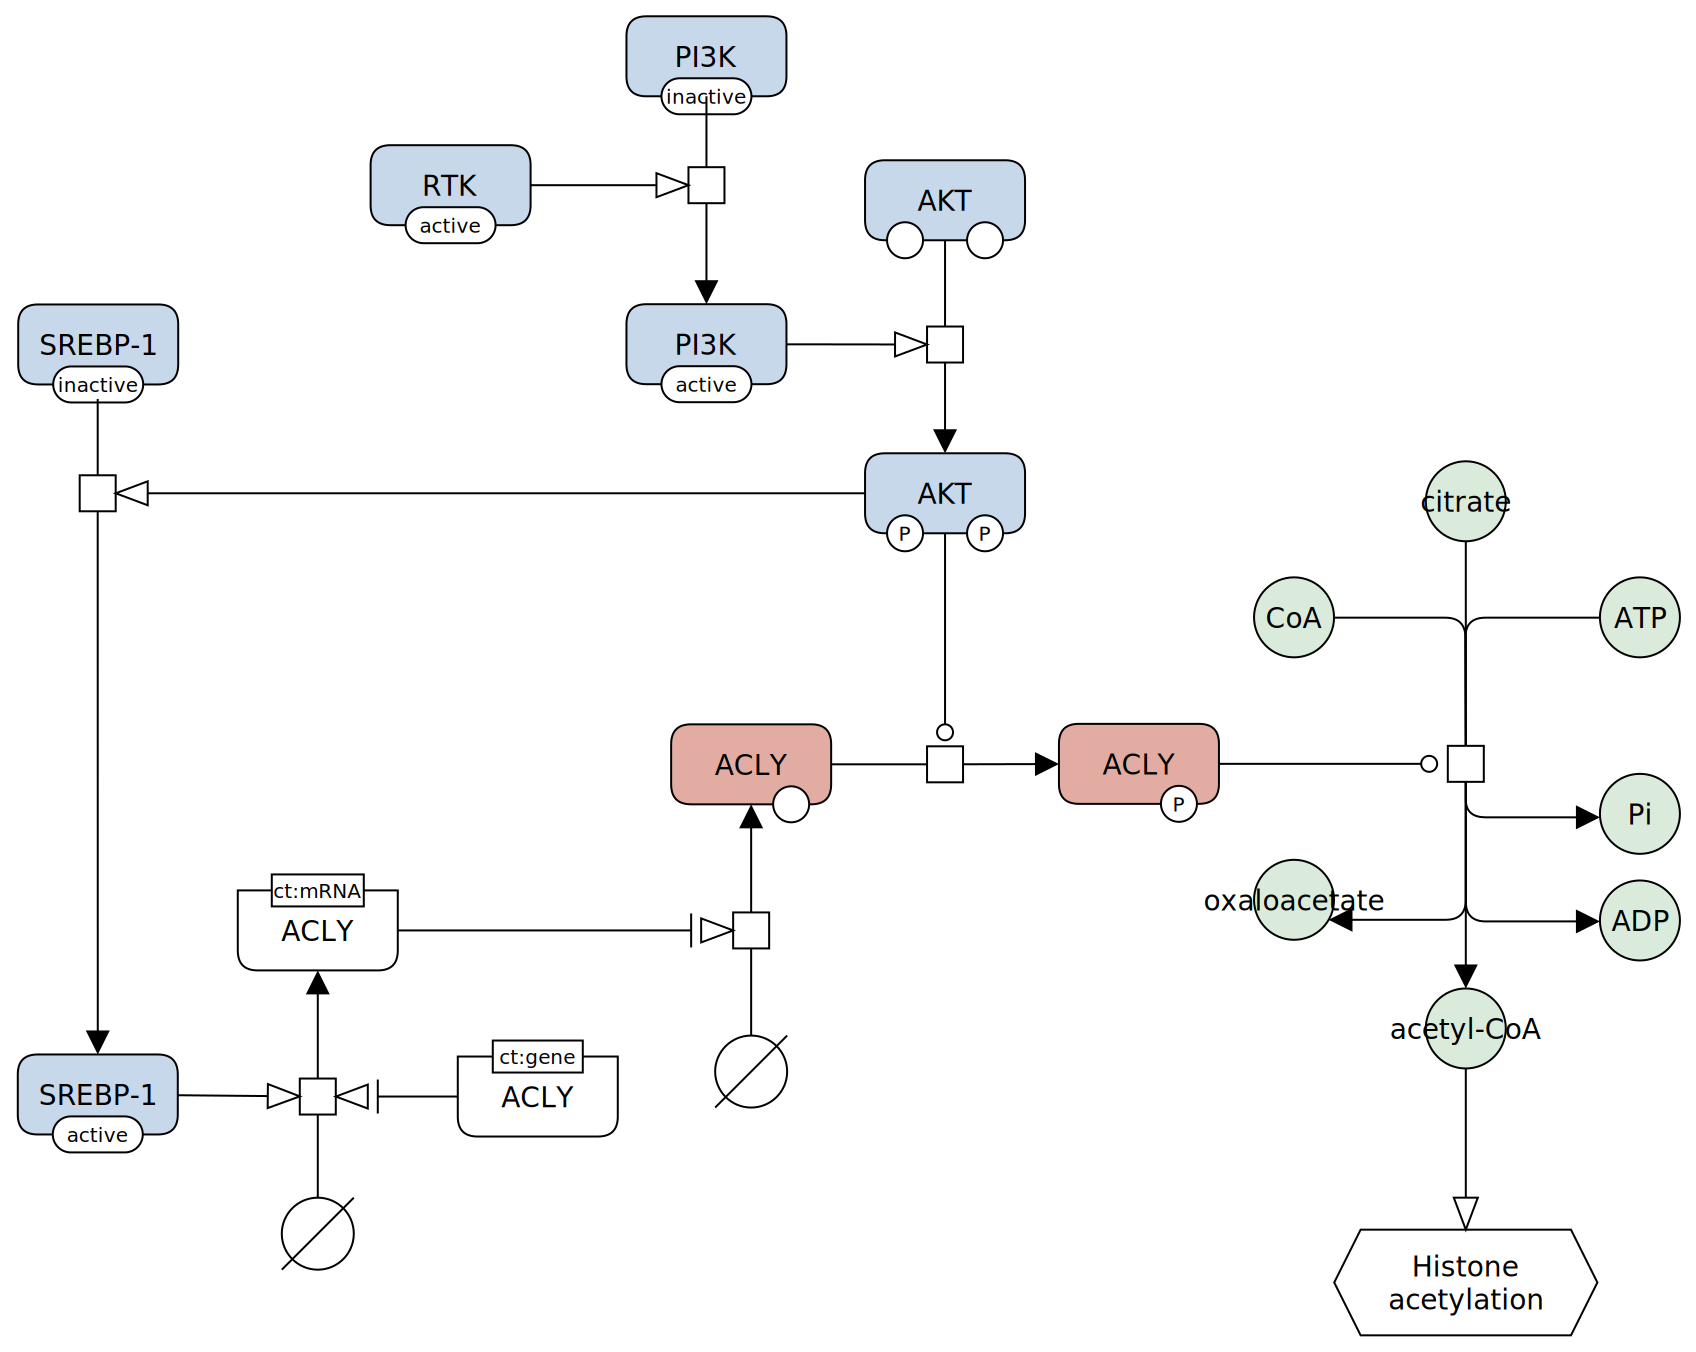
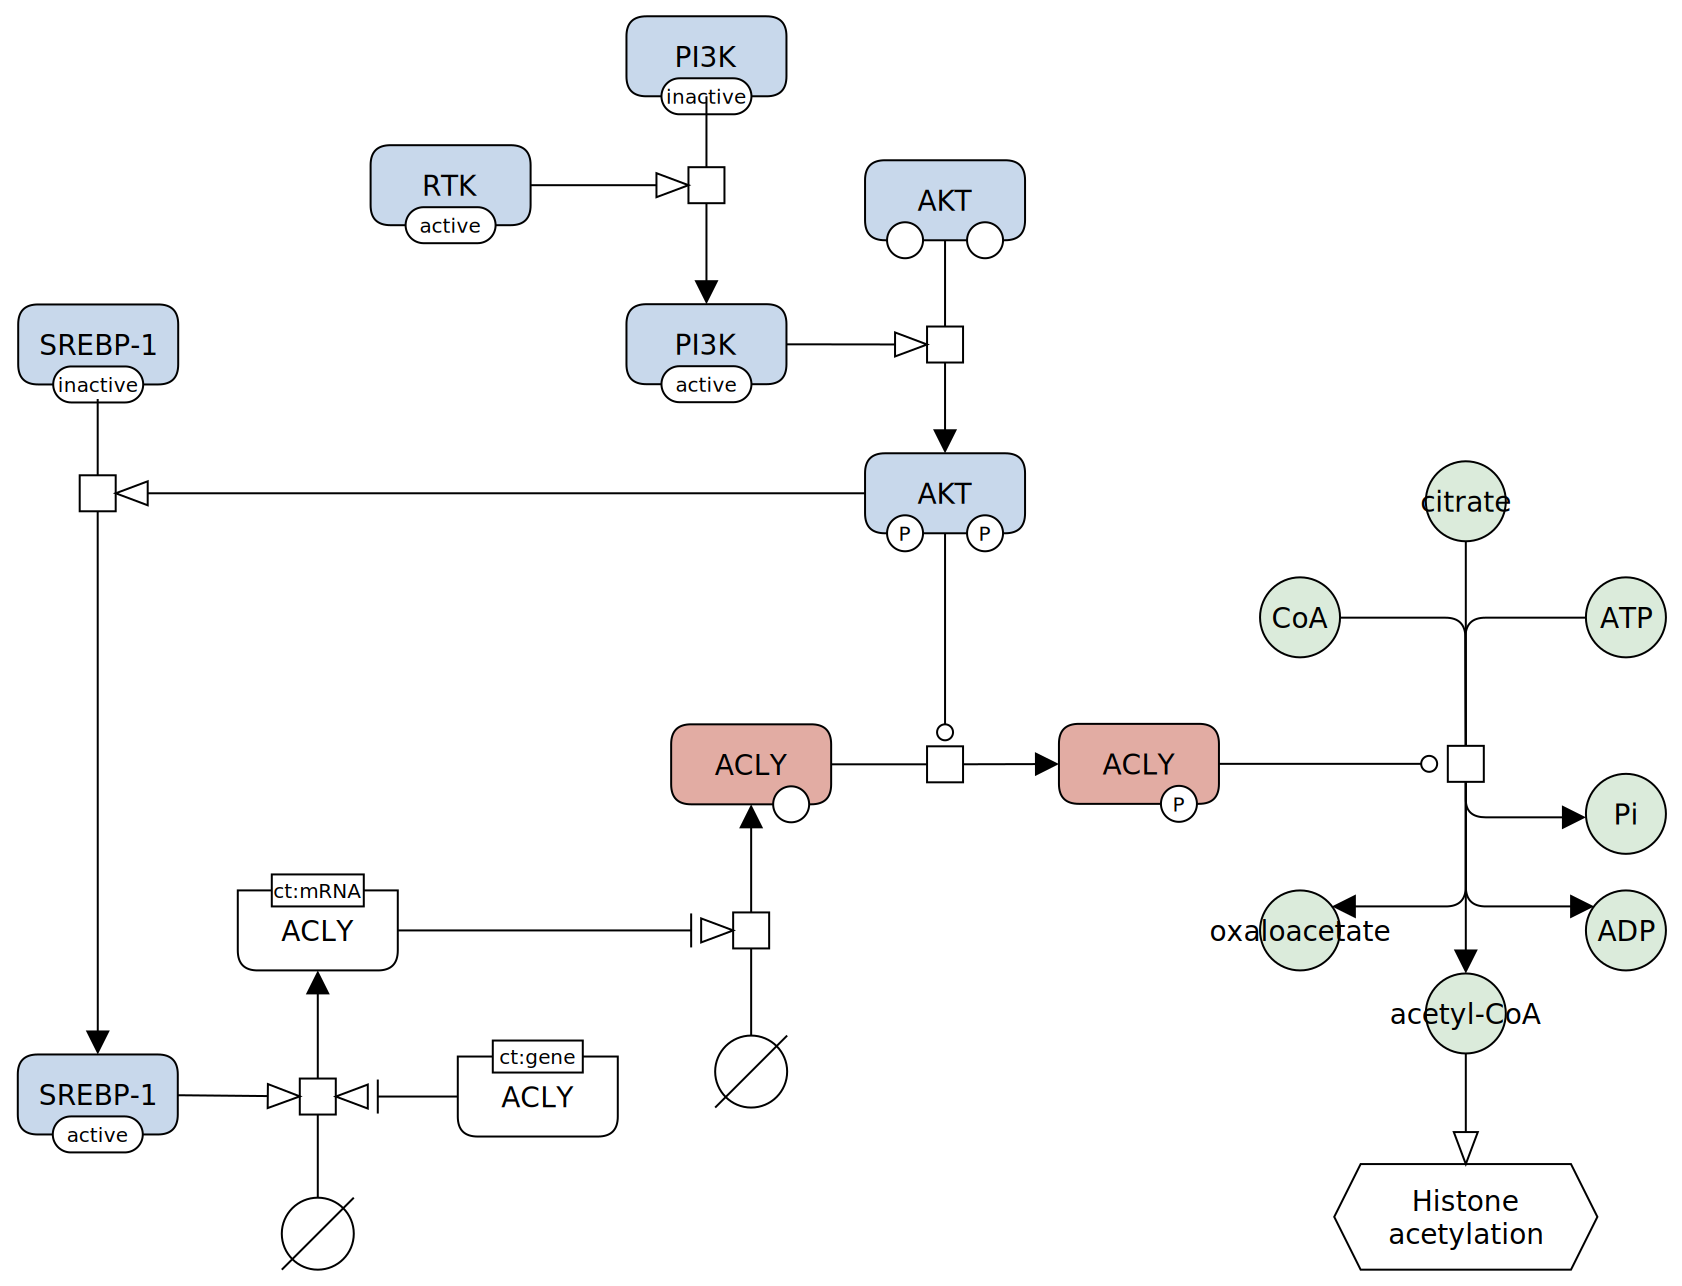
Atlas data rebuilt after upload

diff --git a/_maps/acly.md b/_maps/acly.md
@@ -9,8 +9,8 @@ kind: "map"
 draft: false
 tag: ""
 image: "/atlas-downloads/F006-acly.svg"
-width: 862
-height: 690
+width: 855
+height: 657
 scale: 1
 annotation: "/atlas-data/F006-acly.json"
 image_error: ""
